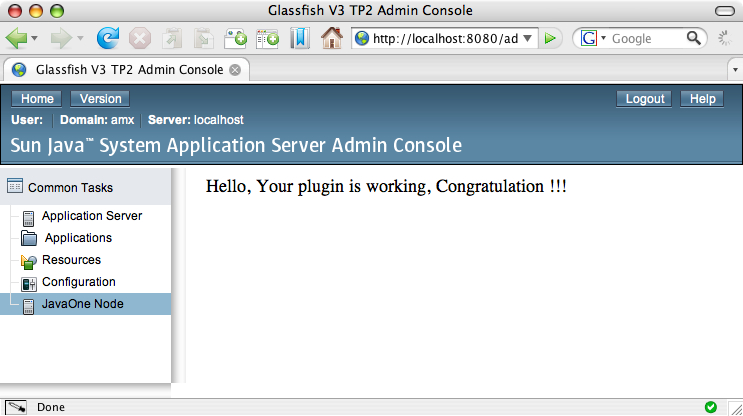
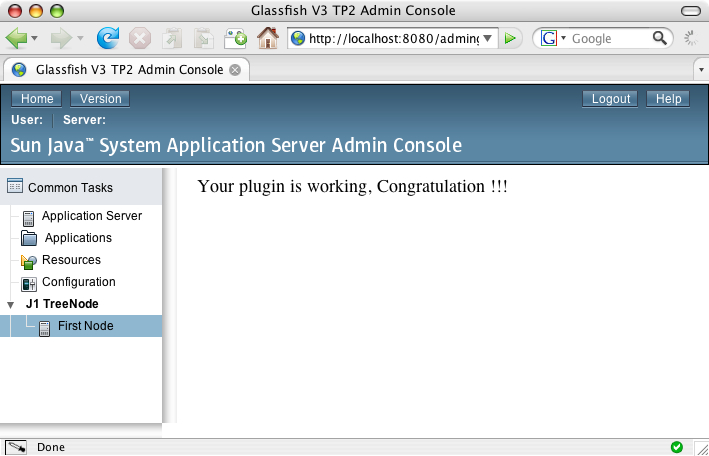
fix image and summary of doc
git-svn-id: svn+ssh://svn.java.net/glassfish~svn/trunk@18689 6f3ba3e3-413c-0410-a8aa-90bee3ab43b5

Changed region(s): [[0.0, 0.0, 1.0, 0.7812], [0.0, 0.9062, 1.0, 1.0]]

diff --git a/v3/admingui/j1plugin/gfplugin/doc/exercise1.html b/v3/admingui/j1plugin/gfplugin/doc/exercise1.html
@@ -549,9 +549,9 @@ page</a>.
           imageURL="theme/com/sun/webui/jsf/suntheme/images/tree/tree_folder.gif"<br>
           &nbsp;&nbsp;&nbsp;&nbsp;&nbsp;&nbsp;&nbsp;&nbsp;&nbsp;&nbsp;&nbsp;&nbsp;&nbsp;&nbsp;&nbsp;
           target="main"&gt;<br>
-          &nbsp;&nbsp;&nbsp; &lt;sun:treeNode id="first" t<br>
+          &nbsp;&nbsp;&nbsp; &lt;sun:treeNode id="first"<br>
           <div style=MARGIN-LEFT:80px>
-            ext="First Node"<br>
+            text="First Node"<br>
           </div>
           &nbsp;&nbsp;&nbsp;&nbsp;&nbsp;&nbsp;&nbsp;&nbsp;&nbsp;&nbsp;&nbsp;&nbsp;&nbsp;&nbsp;&nbsp;
           url="javaone/hello.jsf"<br>
